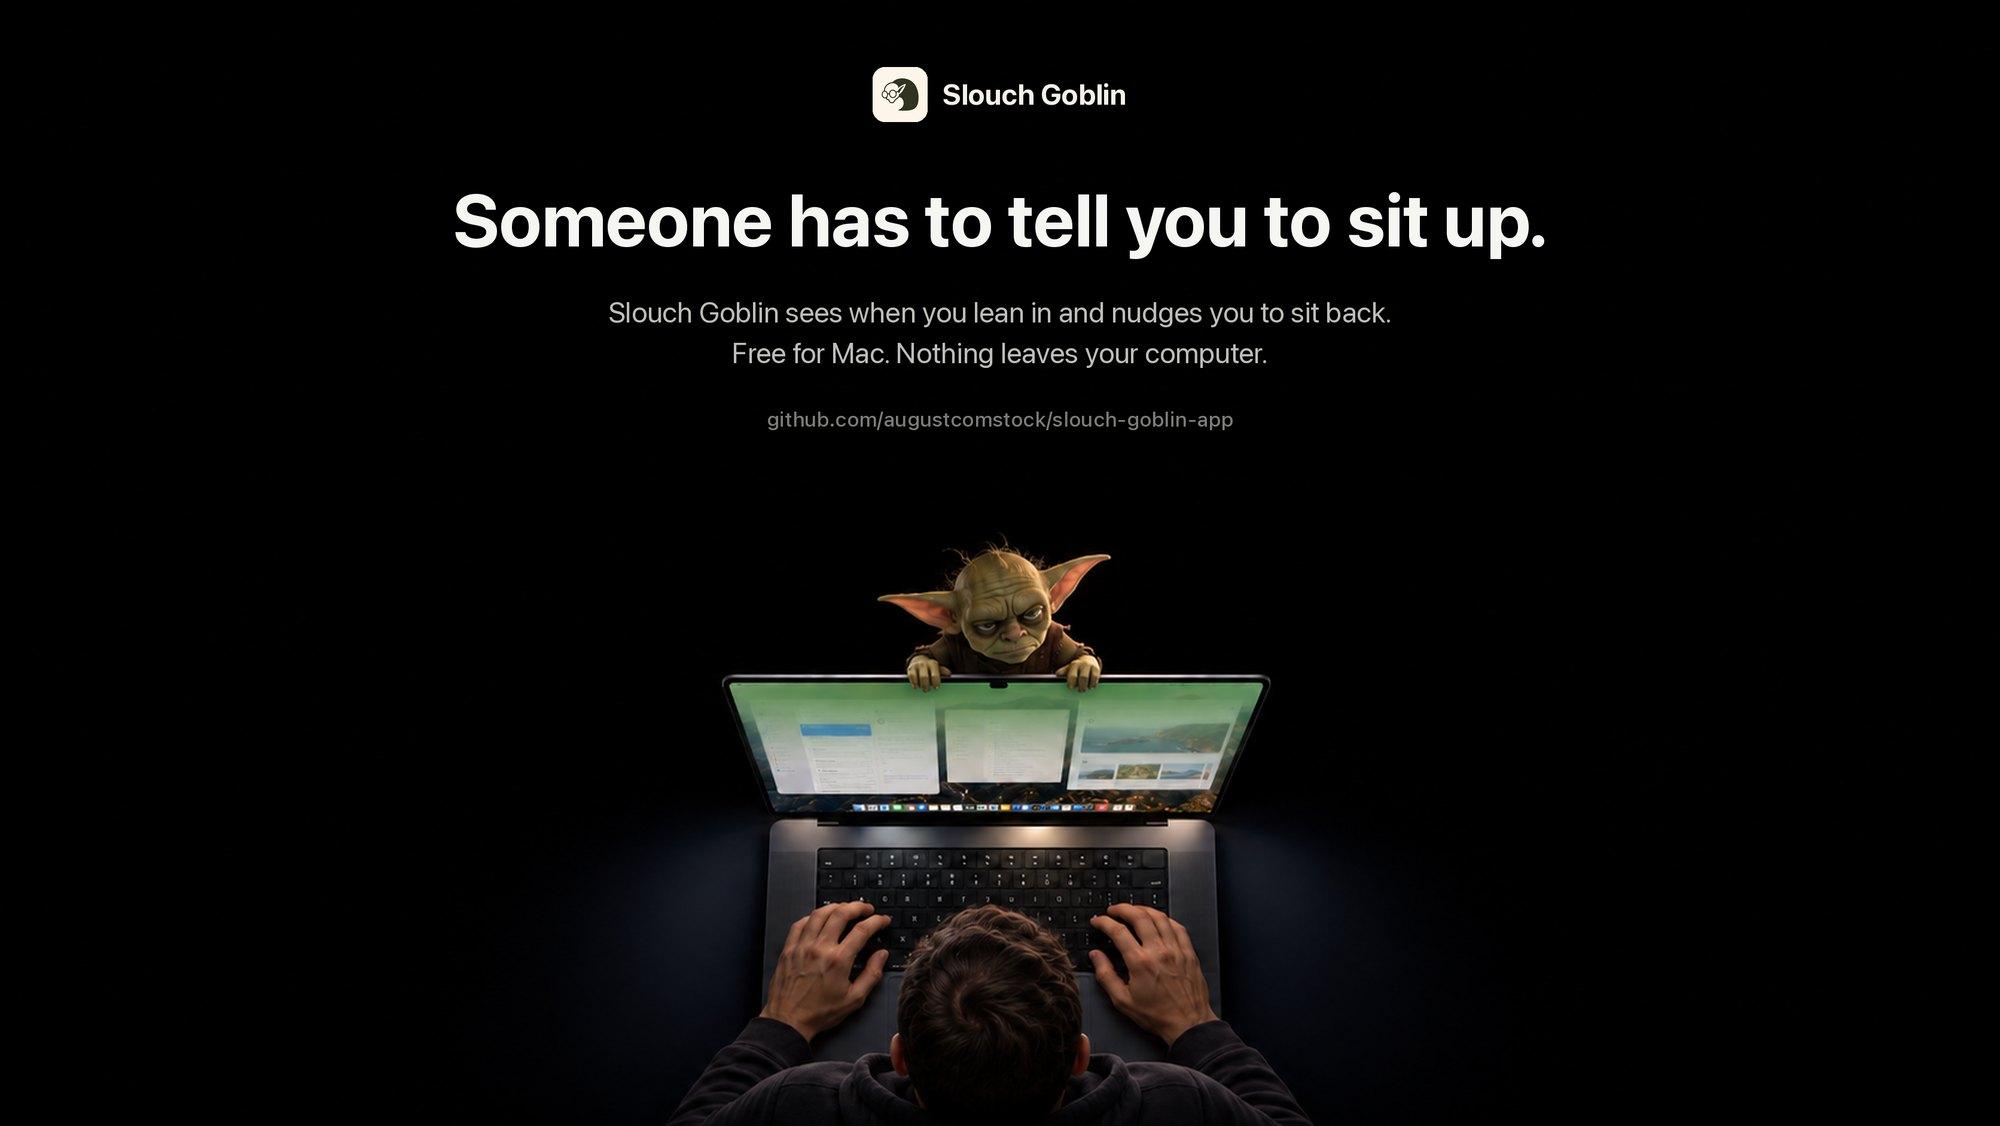
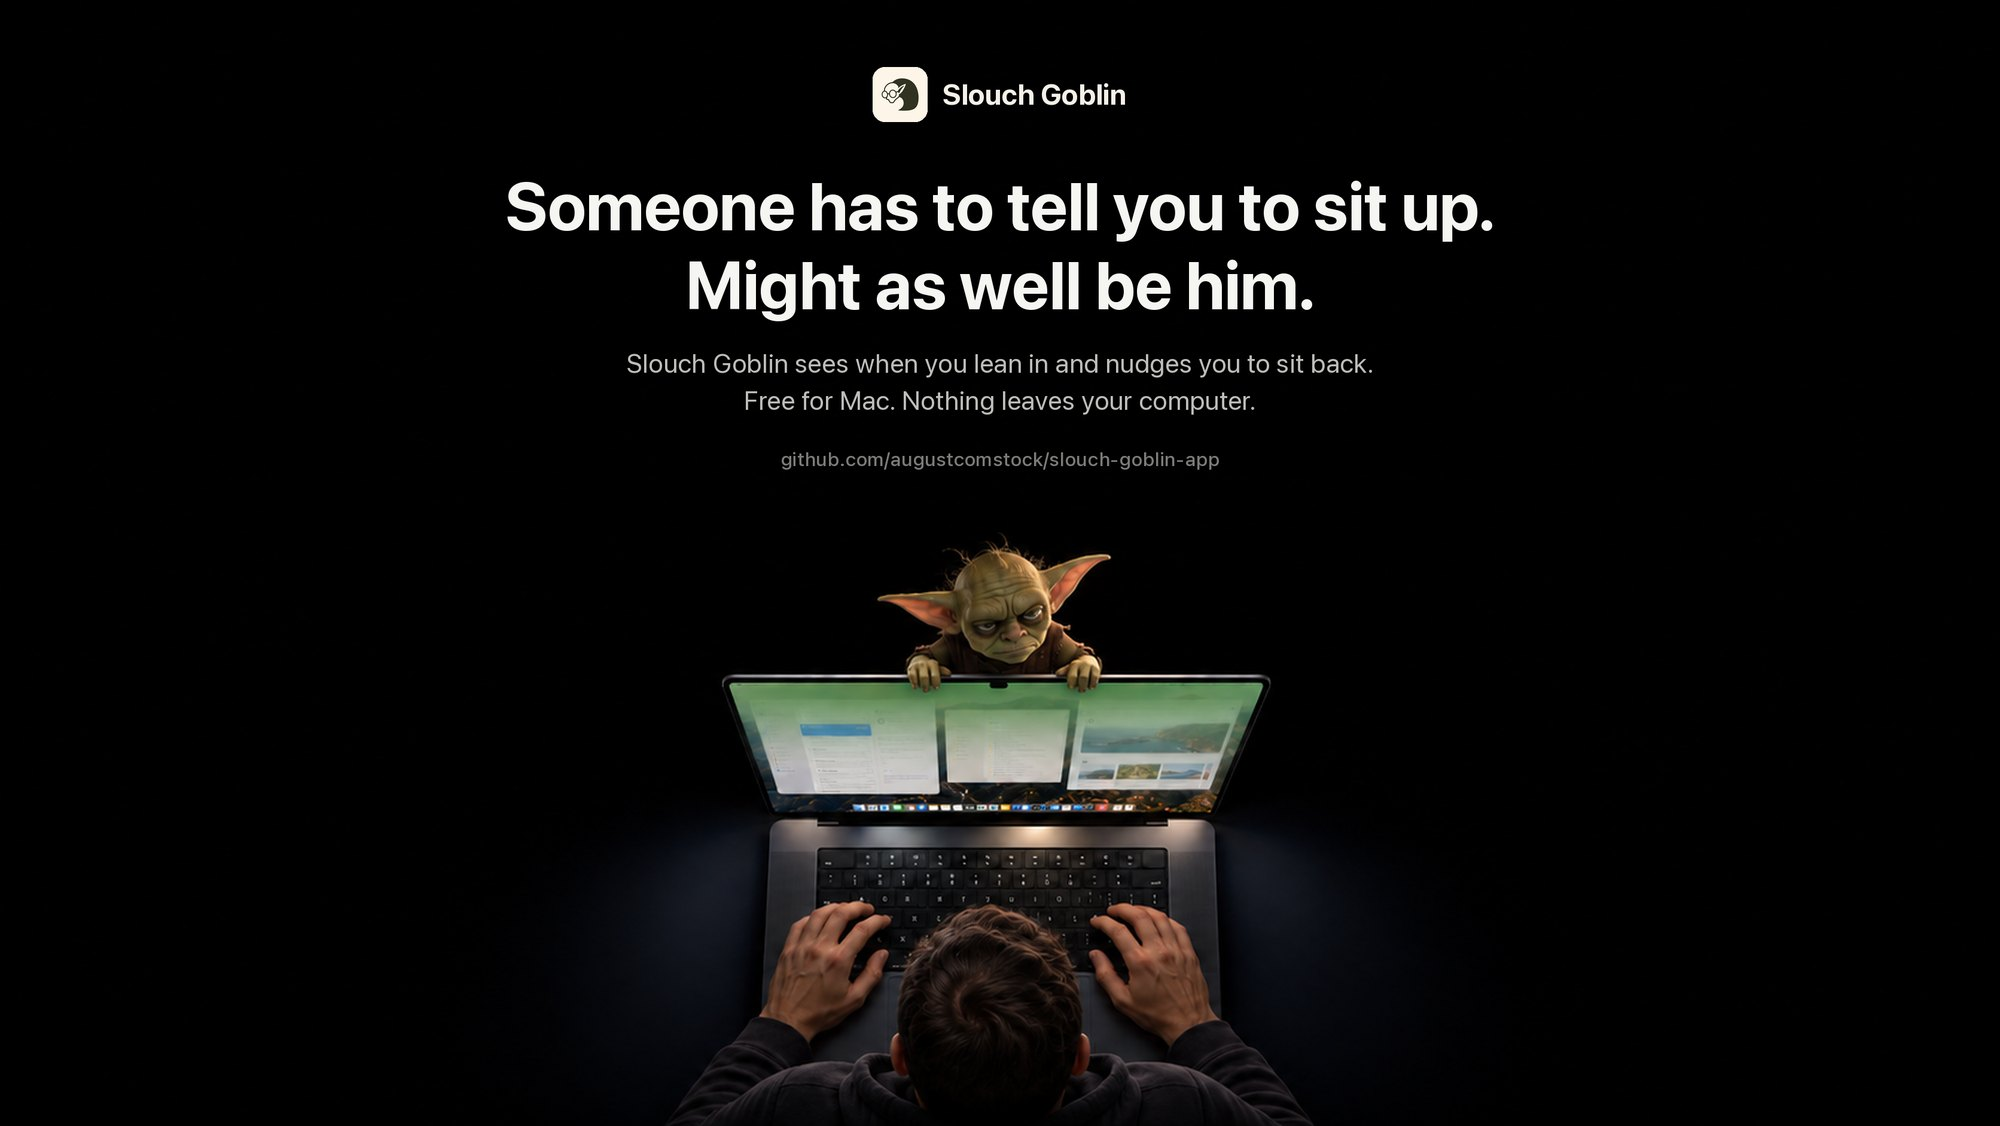
Update the header ad with the new headline
The header image now reads "Someone has to tell you to sit up. Might as
well be him." Alt text updated to match.

Claude-Session: https://claude.ai/code/session_01Te9EEu6PcJ12Q22pkQsnSY

Changed region(s): [[0.217, 0.1554, 0.775, 0.4352]]

diff --git a/README.md b/README.md
@@ -1,6 +1,6 @@
 # Slouch Goblin
 
-![A goblin peers over the top of a MacBook screen at a man leaning in toward it. Headline: Someone has to tell you to sit up.](docs/images/slouch-goblin-hero.jpg)
+![A goblin peers over the top of a MacBook screen at a man leaning in toward it. Headline: Someone has to tell you to sit up. Might as well be him.](docs/images/slouch-goblin-hero.jpg)
 
 A private, real-time posture reminder for MacBooks. It lives in your menu bar,
 watches for forward lean through the built-in camera, and nudges you when you
